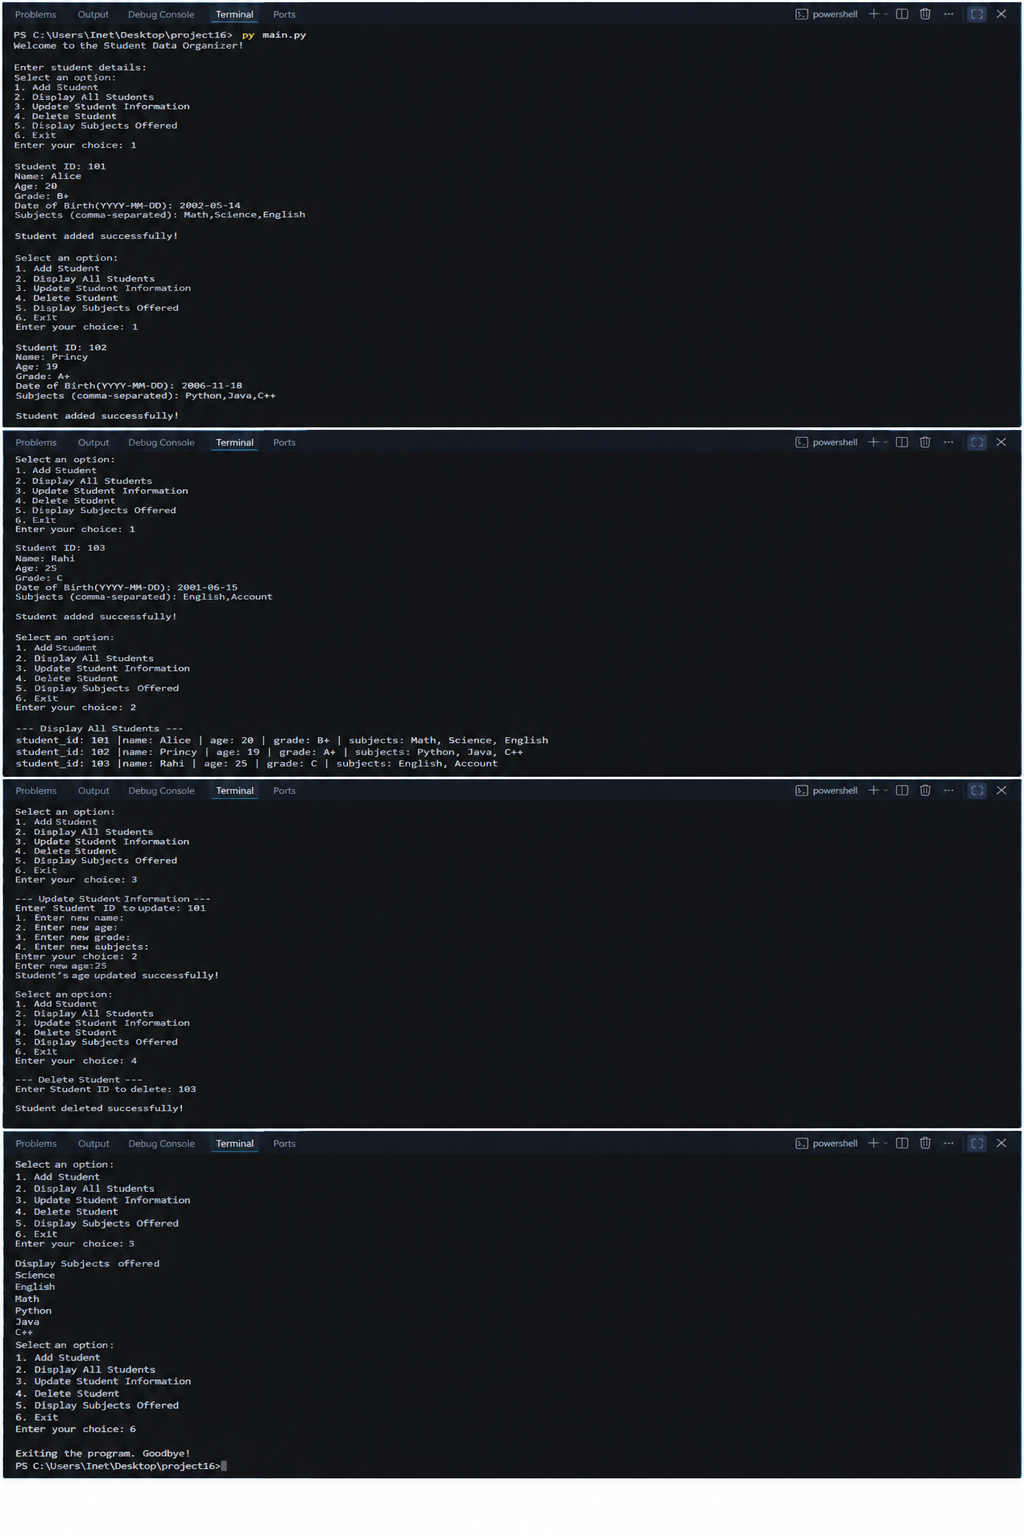
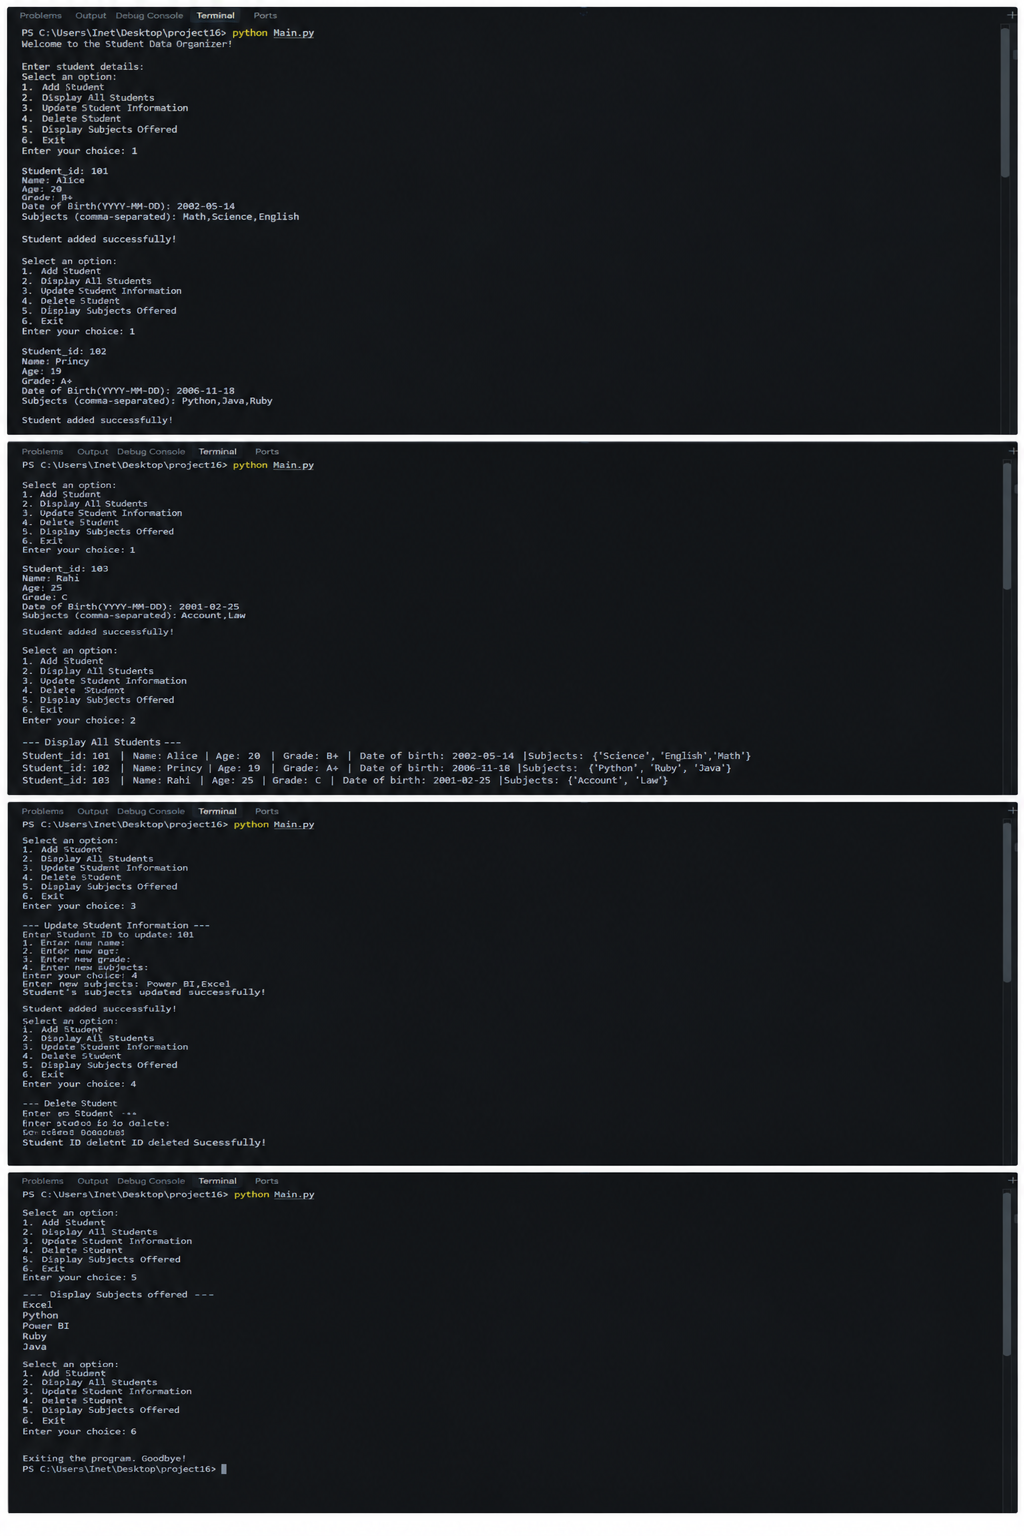
Collection Manipulator

Changed region(s): [[0.0, 0.0, 1.0, 1.0]]

diff --git a/main.py b/main.py
@@ -15,7 +15,7 @@ while True:
     choice = int(input("Enter your choice: "))
     print()
     if choice==1:
-        student_id = int(input("Student ID: "))
+        student_id = int(input("Student_id: "))
         name = input("Name: ")
         age = int(input("Age: "))
         grade = input("Grade: ")
@@ -27,20 +27,21 @@ while True:
         for subject in subjects:
             subjects_set.add(subject.strip())
 
-        
-        student = {
-            "student_id": student_id,
-            "name": name,
-            "age": age,
-            "grade": grade,
-            "subjects": subjects,
-            
-        }
-
          # tuple for student id and dob(date of birth)
         std_info=(student_id, date_of_birth)
 
+        student = {
+            "name": name,
+            "age": age,
+            "grade": grade,
+            "subjects": subjects_set,
+            "info": std_info
+            
+        }
+
         student_list.append(student)
+
+        
         
         print()
 
@@ -50,8 +51,7 @@ while True:
     elif choice==2:
         print("--- Display All Students ---")
         for student in student_list:
-            print(f" student_id: {student['student_id']} |name: {student['name']} | age: {student['age']} | grade: {student['grade']} | subjects: {", ".join(student["subjects"])} ")
-
+            print(f"Student_id: {student['info'][0]} | Name: {student['name']} | Age: {student['age']} | Grade: {student['grade']} | Date of birth: {student['info'][1]} |Subjects: {student['subjects']}")  
         print()
 
 
@@ -59,7 +59,7 @@ while True:
         print("--- Update Student Information ---")
         student_id = int(input("Enter Student ID to update: "))
         for student in student_list:
-            if student["student_id"] == student_id:
+            if student["info"][0] == student_id:
                 
                 print("1. Enter new name: ")
                 print("2. Enter new age: ")
@@ -73,50 +73,50 @@ while True:
                     print("Student's name updated successfully!")
                     break
                 
+                
                 if choice==2:
                     new_age = int(input("Enter new age: "))
                     student["age"]=new_age
                     print("Student's age updated successfully!")
                     break
+                
                
                 if choice==3:
                      new_grade = input("Enter new grade: ")
                      student["grade"]=new_grade
                      print("Student's grade updated successfully!")
                      break
+                
                      
                
                 if choice==4:
                      new_subjects = input("Enter new subjects: ")
+                     new_subjects= new_subjects.split(",")
                      student["subjects"]=new_subjects
                      print("Student's subjects updated successfully!")
                      break
-
-           
-            print()
-            break
+                
+            
         else:
             print("Student ID isn't found.")      
-            print() 
+        print() 
            
 
     elif choice==4:
-        print("--- Delete Student ---")       
-        student_id = int(input("Enter Student ID to delete: "))
+        print(" ---Delete Student--- ")
+        student_id = int(input("Enter student id to delete student: "))
         for student in student_list:
-            if student["student_id"] == student_id:
+            if student["info"][0]==student_id:
                 student_list.remove(student)
-                print()
-                print("Student deleted successfully!")
-                print()
+                
+                print("Student ID deleted Successfully!")
                 break
         else:
-            print("Student ID isn't found.")  
-            print()
-           
-
+            print("Student ID isn't found")
+        print()        
+                
     elif choice==5:
-        print("Display Subjects offered")
+        print("--- Display Subjects offered ---")
         s = set()
         for std in student_list:
             for subject in std["subjects"]:
@@ -125,7 +125,6 @@ while True:
                 print(subject)
         print()
         
-
     elif choice==6:
         print("Exiting the program. Goodbye!")
         break

diff --git a/README.md b/README.md
@@ -1,13 +1,10 @@
 # 🎓 Student Data Organizer
+
 A simple **Python-based Student Data Organizer** that allows users to manage student information using a menu-driven program.
 
-## 📖 Project Description
+## 📌 Project Description
 
-Student Data Organizer is a simple **Python-based project** designed to manage student information through a menu-driven program.
-
-It allows users to **add, display, update, and delete student records**, as well as view the subjects offered by all students.
-
-This project is created to practice Python programming concepts and data structures such as **lists, dictionaries, sets, and tuples**.
+Student Data Organizer is a beginner-friendly Python project used to manage student information. It allows users to add, display, update, and delete student records and also display the subjects offered.
 
 ## ✨ Features
 
@@ -16,51 +13,30 @@ This project is created to practice Python programming concepts and data structu
 * ✏ Update Student Information
 * 🗑 Delete Student
 * 📚 Display Subjects Offered
-* 🚪 Exit the program
-* 👤 Store student ID, name, age, grade, date of birth, and subjects
-* 🔄 Update student name, age, grade, and subjects
-* 🔢 Display subjects without duplicate values
+* 🚪 Exit the Program
 
 ## 🛠 Technologies Used
 
-* Python 3
-* VS Code
-* Git
-* Git Hub
+* 🐍 Python 3
+* 💻 Visual Studio Code
+* 🔧 Git
+* 🐙 GitHub
 
-  
+## ▶ How to Run / Installation
 
-## 🚀 How to Run / Installation
-
-### 1⃣ Install Python
-
-Install **Python 3** on your computer.
-
-### 2⃣ Download or Clone the Project
-
-Clone the repository using:
-
-```bash
-git clone <repository-url>
-```
-
-Or download the project as a ZIP file from GitHub.
-
-### 3⃣ 📂 Open the Project
-
-Open the project folder in **VS Code**.
-
-### 4⃣ ▶ Run the Program
-
-Open the terminal in VS Code and run:
+1. 🐍 Install **Python 3** on your computer.
+2. 💻 Install and open **Visual Studio Code**.
+3. 📂 Open the project folder in VS Code.
+4. ▶ Open `main.py`.
+5. 🖥 Run the following command in the terminal:
 
 ```bash
 python main.py
 ```
 
-The **Student Data Organizer** menu will appear in the terminal.
+6. 🎯 Select an option from the menu and use the program.
 
-## 📁 Project Structure
+## 📂 Project Structure
 
 ```text
 
@@ -68,12 +44,9 @@ The **Student Data Organizer** menu will appear in the terminal.
 ├── output.png
 ├── README.md
 ```
-## output
-![Program Output](output.png)
+## Output
+![Program output](output.png)
 
+## 👩💻 Author / Developer Name
 
-## 👩💻 Author / Developer
-
-**Pansuriya Princy**
-
-
+**Princy Pansuriya**
